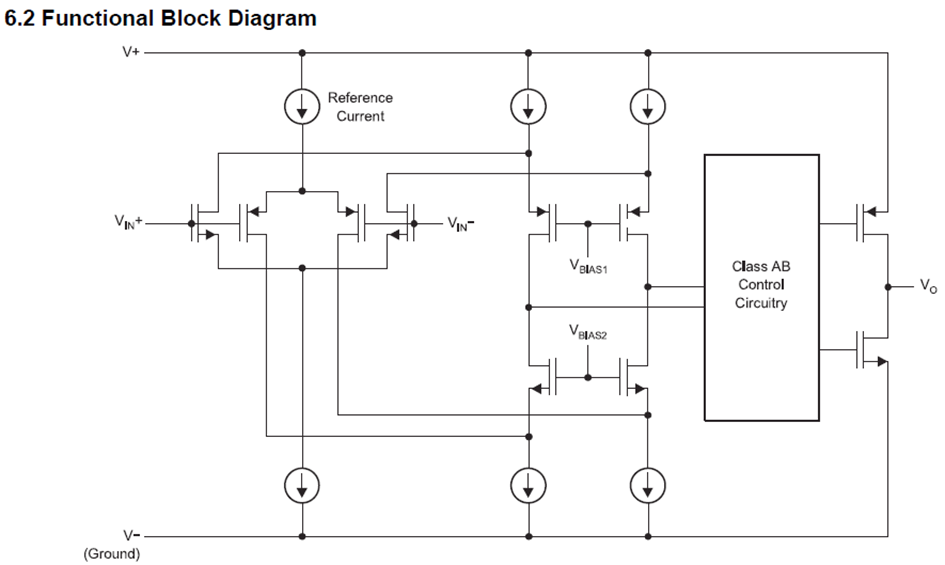
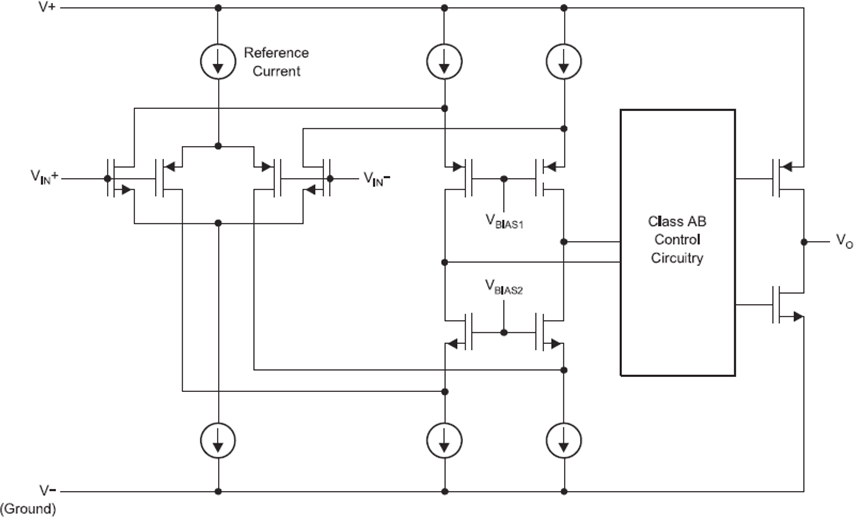
Light/dark images for fet-amp.

Changed region(s): [[0.0, 0.0, 1.0, 1.0], [0.2131, 0.8046, 0.3349, 0.8975]]

diff --git a/_posts/2026-03-08-op-amp-introduction.md b/_posts/2026-03-08-op-amp-introduction.md
@@ -214,7 +214,11 @@ Battery-powered systems and long-term DC measurements fall into this category. H
 A simplified schematic of a typical CMOS operational amplifier is shown below:
 
 <figure>
-  <img src="{{ '/posts/op-amp-introduction/fet-amp.png' | relative_url }}" />
+  <picture>
+    <source srcset="{{ '/posts/op-amp-introduction/fet-amp.png' | relative_url }}" media="(prefers-color-scheme: light)"/>
+    <source srcset="{{ '/posts/op-amp-introduction/fet-amp-dark.png' | relative_url }}" media="(prefers-color-scheme: dark)"/>
+    <img src="{{ '/posts/op-amp-introduction/fet-amp.png' | relative_url }}" style="width:75%;"/>
+  </picture>
   <figcaption>Simplified schematic of a typical CMOS operational amplifier input stage from the OPA391 datasheet (<a href="https://www.ti.com/product/OPA391">https://www.ti.com/product/OPA391</a>).</figcaption>
 </figure>
 
